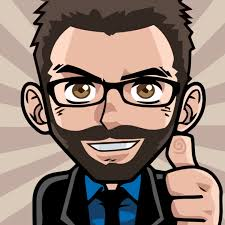
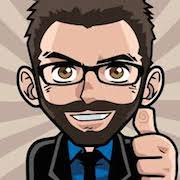
Arial font

diff --git a/class01hw/starter_code/portfolio.html b/class01hw/starter_code/portfolio.html
@@ -7,7 +7,7 @@
 </head>
 	<hr color="blue" size="7">
 
-<h2>PORTFOLIO     | <a href="index.html">ABOUT ME</a></h2>
+<h4>PORTFOLIO     | <a href="index.html">ABOUT ME</a></h4>
 	<hr color="blue">
 
 <h1>Joe Johnson</h1>
@@ -19,27 +19,33 @@
 <p>I recently graduated from a Front-End Web Development course at General Assembly where I learned HTML, CSS, JavaScript, jQuery and how to be an <strong>awesome</strong> Front-End Web Developer! During my spare time, I enjoy senior water aerobics, pickling, and spending time with my goldfish, Jerry.</p>
 		
 <h3>Relevant Experience</h3>
-		
-<p>Web Developer, Relaxr 2015 - present</p>
-<p>Developed a multi-column layout blog, landing page, and contact forms that render on mobile devices.</p>
+
+<ul>
+	
+	<li><strong>Web Developer, Relaxr 2015 - present</strong>
+<p>Developed a multi-column layout blog, landing page, and contact forms that render on mobile devices.</li></p>
+
 <img src="images/relaxr_deliverable.png" alt="Relaxr">
 
-<p>Web Developer, Startup Matchmaker 2015 - present</p>
-<p>Used a design team's wireframes to develop this company's responsive homepage.</p>
+<li><strong>Web Developer, Startup Matchmaker 2015 - present</strong>
+<p>Used a design team's wireframes to develop this company's responsive homepage.</li><p>
+
 <img src="images/startup_matchmaker_deliverable.png" alt="matchmaker">
 
 
-<p>Web Developer, CitiPix 2015 present</p>
-<p>Built web app prototype that allows users to store and quickly retrieve photos using keywords.</p>
+<li><strong>Web Developer, CitiPix 2015 present</strong>
+	<p>Built web app prototype that allows users to store and quickly retrieve photos using keywords.</li></p>
+
 
 <img src="images/citipix_deliverable.png" alt="citipix">
 
 
 <h3>EDUCATION</h3>
 
-<p>General Assembly FEWD 2015</p>
-<p>College of Soft Knocks B.S. 2009</p>
-<p>School of Hard Knocks 2005 (Honors)</p>
+<li>General Assembly FEWD 2015</li>
+<li>College of Soft Knocks B.S. 2009</li>
+<li>School of Hard Knocks 2005 (Honors)</li>
+</ul>
 
 </body>
 </html>

diff --git a/class01hw/starter_code/index.html b/class01hw/starter_code/index.html
@@ -9,27 +9,27 @@
 	<hr color="blue" size="7">
 
 
-<img class="profile" src="images/profile.jpg" alt="Joe Johnson">
+<img src="images/profile.jpg" alt="Joe Johnson">
 
 
 <h1>Joe Johnson</h1>
-<h2> 
+<h4> 
 	<a href="http://www.facebook.com">Facebook</a> 	|
 	<a href="http://www.twitter.com">Twitter</a>	 |
 	<a href="http://www.instagram.com">Instagram</a> 	|
 	<a href="http://www.linkedin.com">Linkedin</a>	 |
-</h2>
+</h4>
 </header>
 <hr color="blue" size="7">
 
 <body>
 
-<h4>
+<h2>
 	<ul>
 		<li>ABOUT ME</li>
 		<li><a href="portfolio.html">PORTFOLIO</a></li>
 	</ul>
-</h4>
+</h2>
 
 <hr>
 

diff --git a/class01hw/starter_code/styles.css b/class01hw/starter_code/styles.css
@@ -1,36 +1,24 @@
 
-
-	img{
-	width:125px;
-	height:125px;
-	margin: 15 515 0 515;}
-
-
+img{
+	margin:auto;
+}
 
 h1{
 	text-align: center;
 	background-color: beige;
 	font-size: 35pt;}
 
-	h2{
-	text-align: center;
-	font-size: 12pt;
 
-}
 
 p{
+	font-family:Arial;
 	font-size: 12pt;
 }
 
 h3{
 	text-align: center;
 }
-h2{
+h4{
 	text-align: center;
 	font-size: 12pt;
 }
-
-	img{
-		width:250px;
-		height:250px;
-	}
